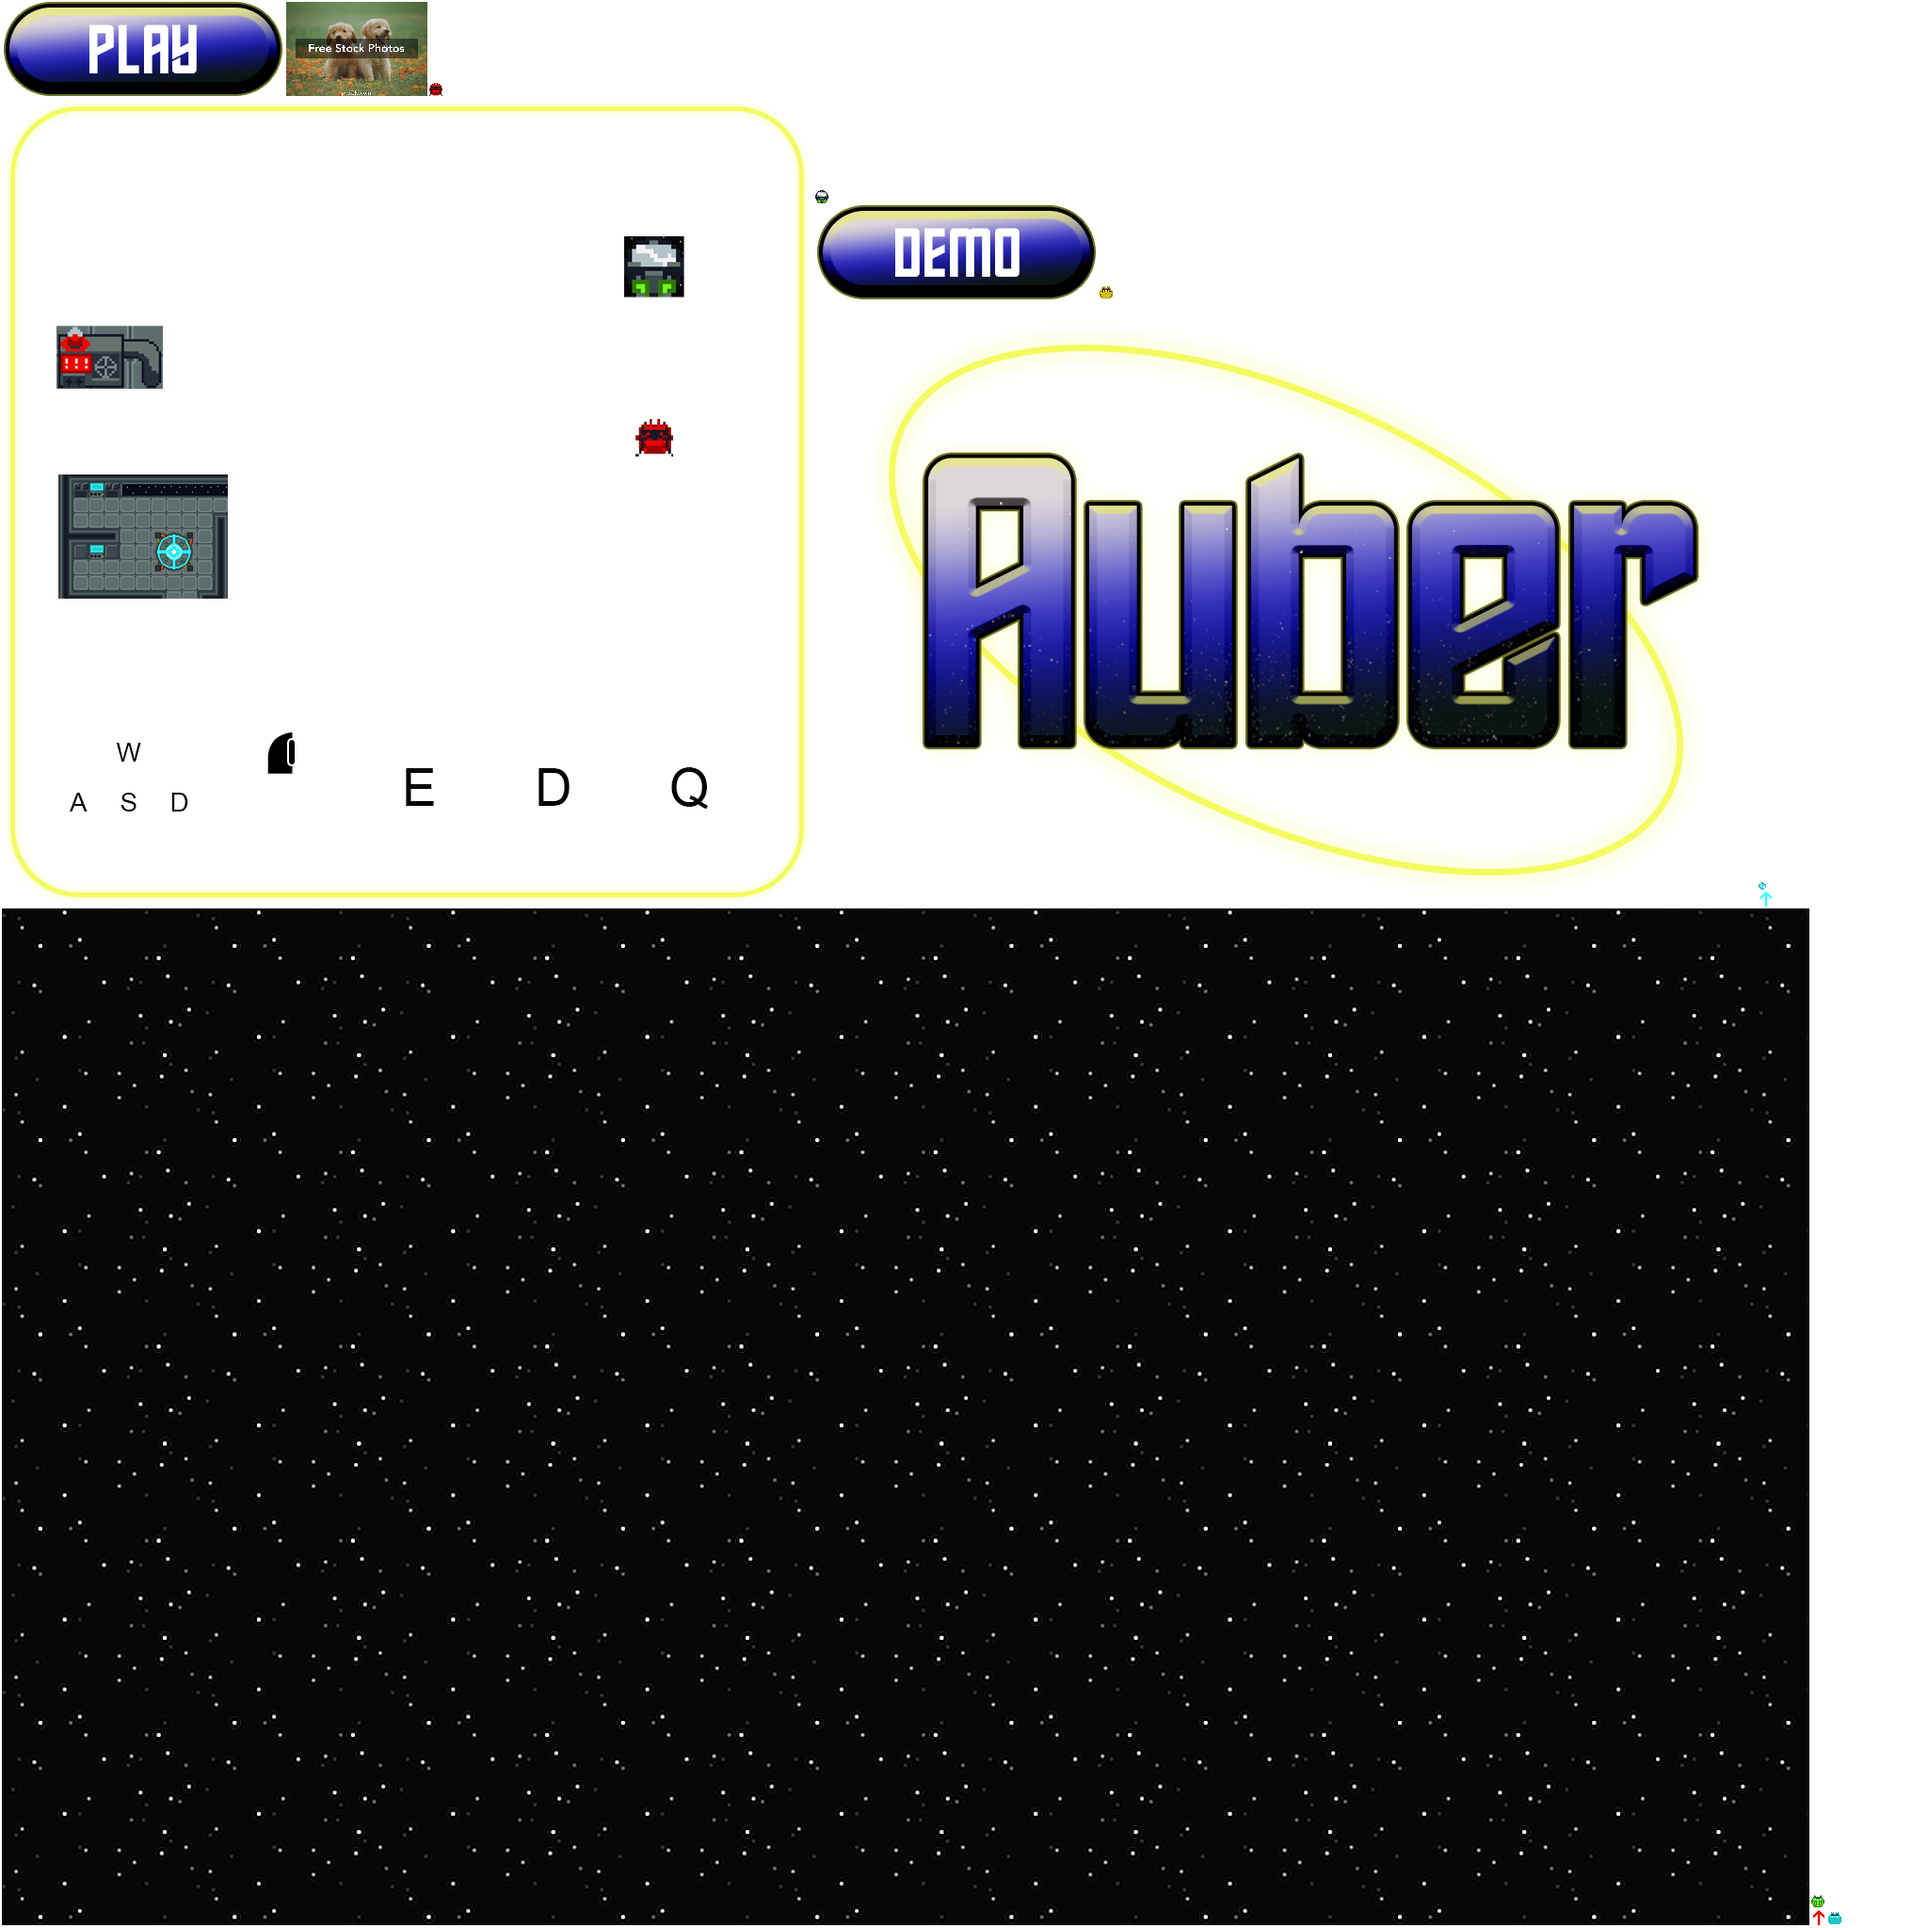
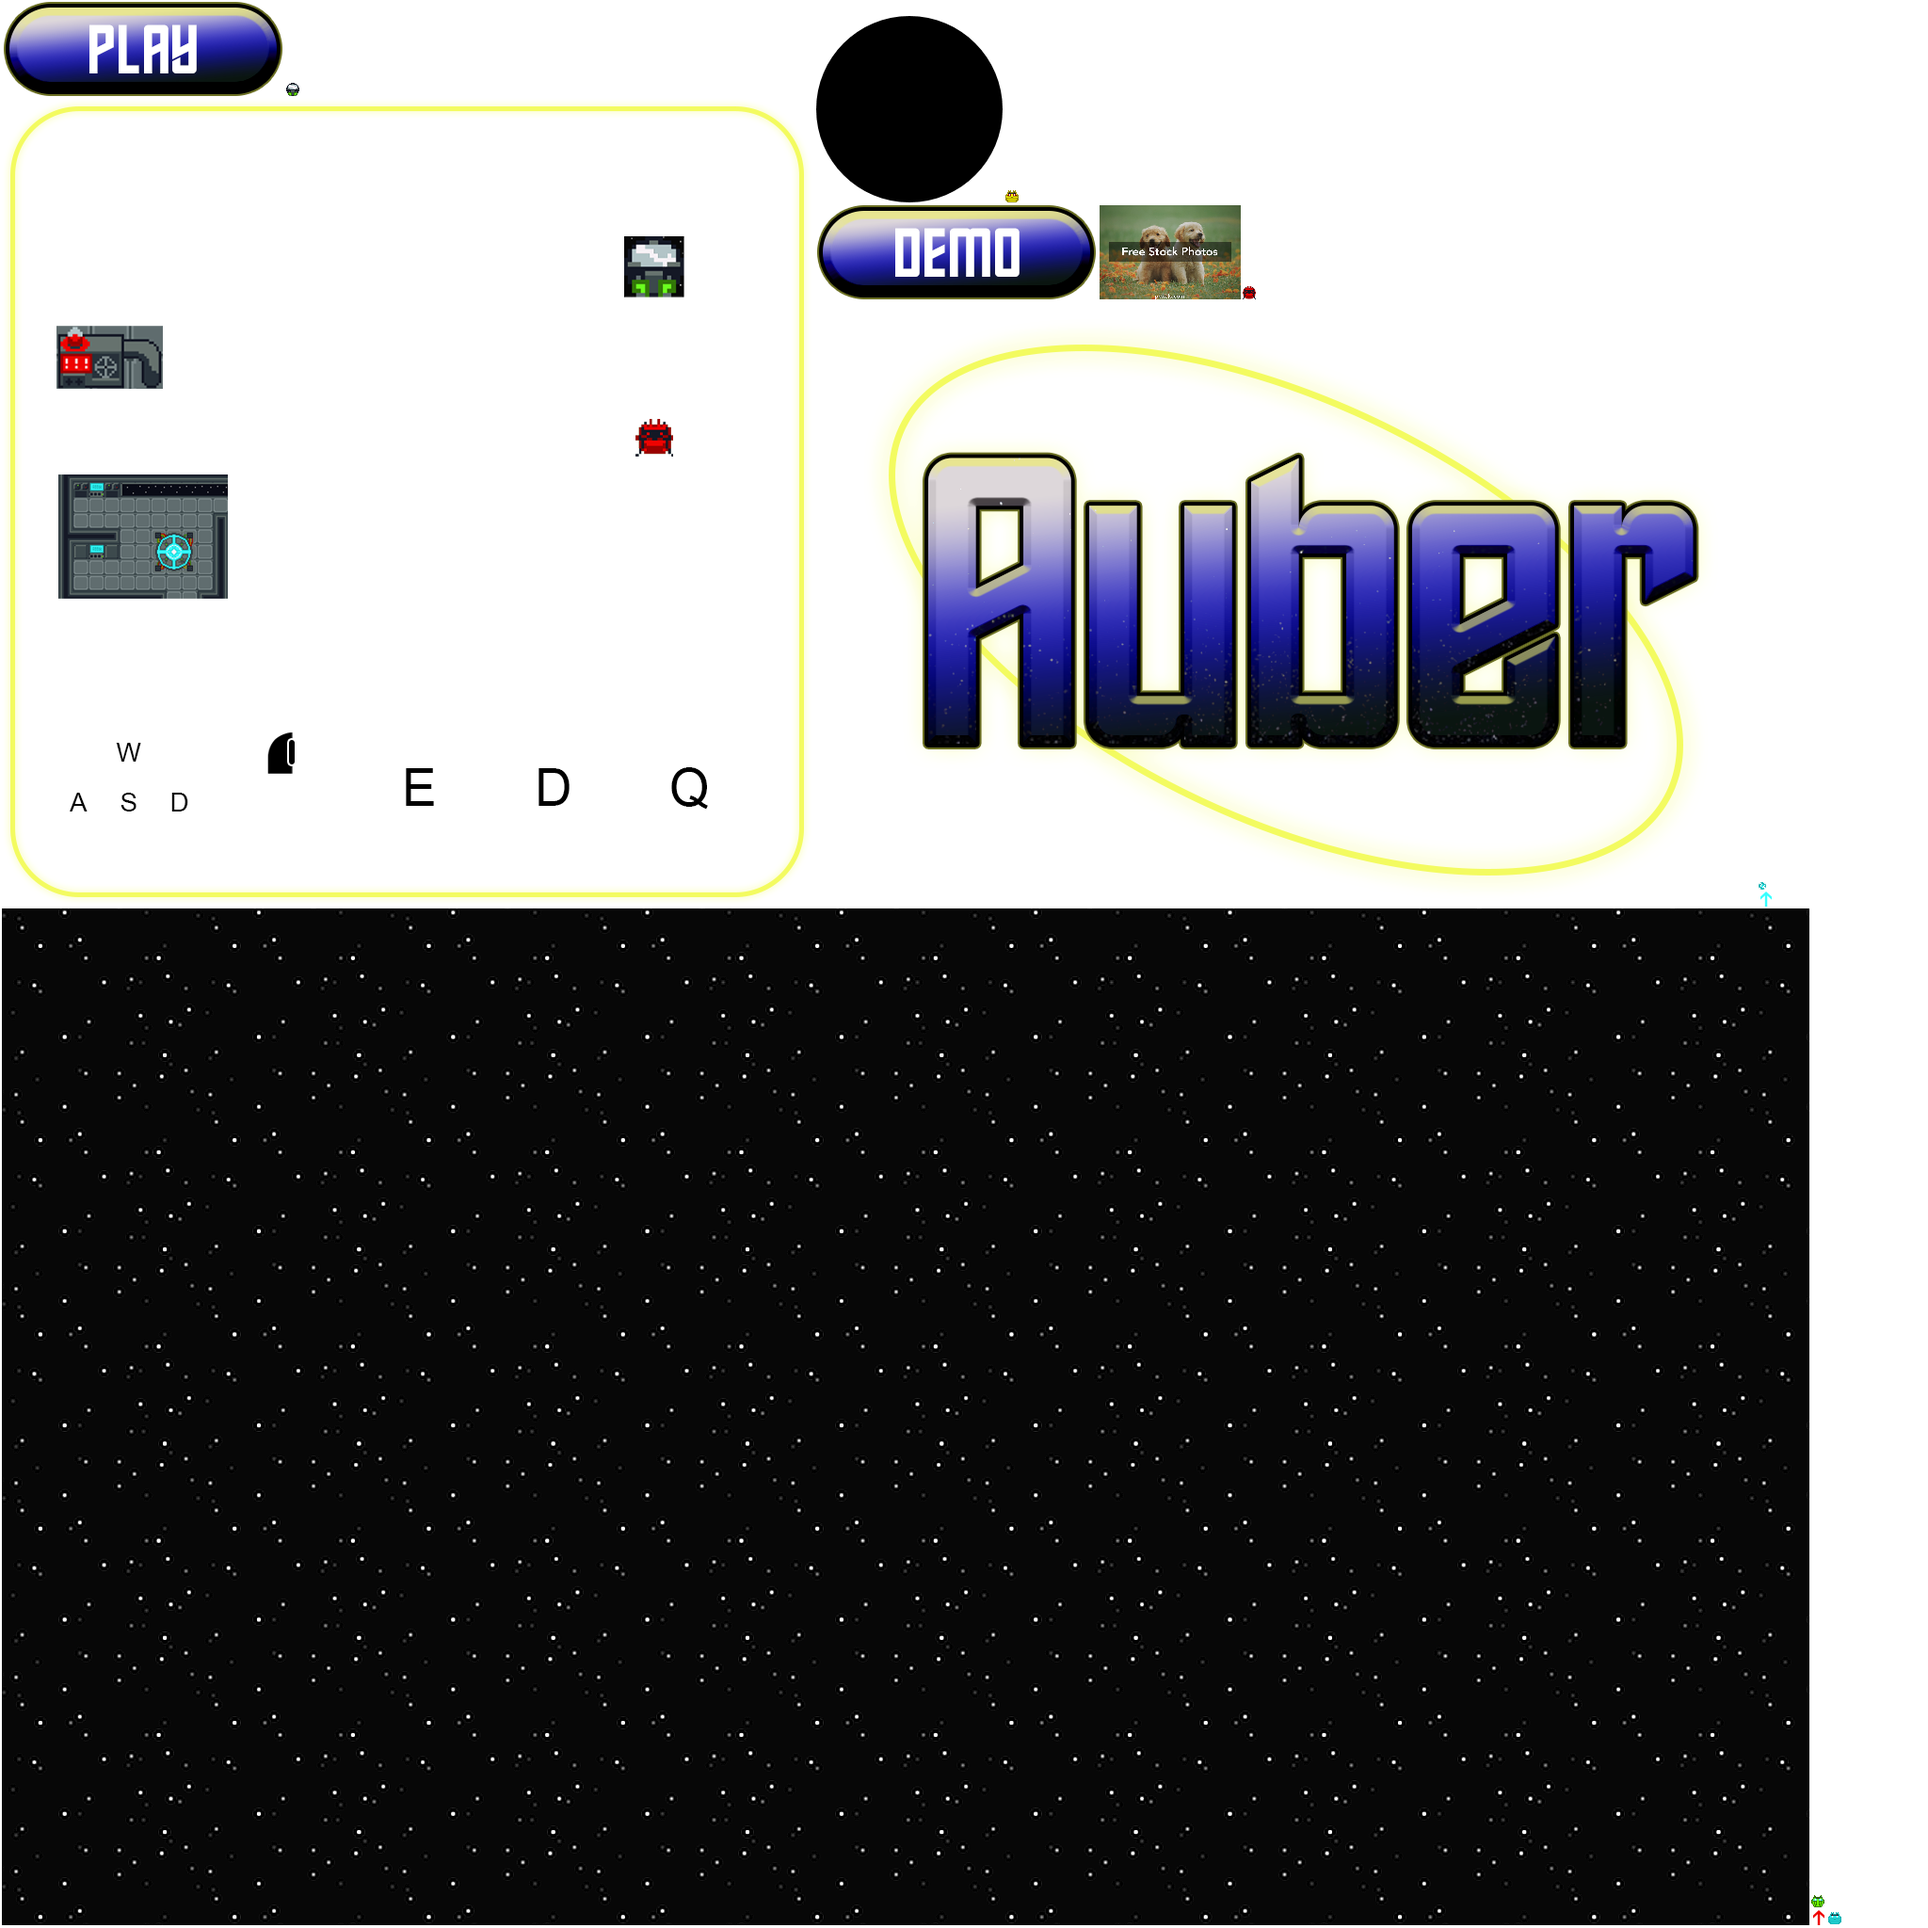
Added sprite mask to atlas
Now to get sprite mask working

Changed region(s): [[0.4062, 0.0, 0.5312, 0.125], [0.5625, 0.0938, 0.6562, 0.1562], [0.125, 0.0, 0.2188, 0.0625]]

diff --git a/core/src/com/threecubed/auber/ui/GameUi.java b/core/src/com/threecubed/auber/ui/GameUi.java
@@ -2,6 +2,7 @@ package com.threecubed.auber.ui;
 
 import com.badlogic.gdx.Gdx;
 import com.badlogic.gdx.graphics.Color;
+import com.badlogic.gdx.graphics.GL20;
 import com.badlogic.gdx.graphics.g2d.BitmapFont;
 import com.badlogic.gdx.graphics.g2d.Sprite;
 import com.badlogic.gdx.graphics.g2d.SpriteBatch;
@@ -31,14 +32,16 @@ public class GameUi {
 
   private Sprite arrowSprite;
   private Sprite miniMapSprite;
-  private float MINIMAP_SCALE_FACTOR = 2f;
+  private Sprite maskSprite;
+  private float MINIMAP_SCALE_FACTOR = 1f;
   private Color blindedColor = new Color(0f, 0f, 0f, 1f);
 
   private BitmapFont uiFont = new BitmapFont();
 
   public GameUi(AuberGame game) {
     arrowSprite = game.atlas.createSprite("arrow2");
-    miniMapSprite = game.atlas.createSprite("placeholder");
+    miniMapSprite = game.atlas.createSprite("minimapTexture");
+    maskSprite = game.atlas.createSprite("map_mask");
     miniMapSprite.scale(MINIMAP_SCALE_FACTOR);
   }
 
@@ -184,8 +187,16 @@ public class GameUi {
   // TODO: Finish minimap, need to insert new textures first
   private void drawMinimap(World world, SpriteBatch screenBatch){
     screenBatch.begin();
-    miniMapSprite.setPosition(Gdx.graphics.getWidth() - (miniMapSprite.getWidth() * MINIMAP_SCALE_FACTOR), Gdx.graphics.getHeight() - (miniMapSprite.getHeight() * MINIMAP_SCALE_FACTOR));
+    miniMapSprite.setPosition(
+            Gdx.graphics.getWidth() - (miniMapSprite.getWidth() * MINIMAP_SCALE_FACTOR),
+            Gdx.graphics.getHeight() - (miniMapSprite.getHeight() * MINIMAP_SCALE_FACTOR)
+    );
     miniMapSprite.draw(screenBatch);
+    maskSprite.setPosition(
+            Gdx.graphics.getWidth() - maskSprite.getWidth(),
+            Gdx.graphics.getHeight() - maskSprite.getHeight()
+    );
+    maskSprite.draw(screenBatch);
     screenBatch.end();
   }
 }
